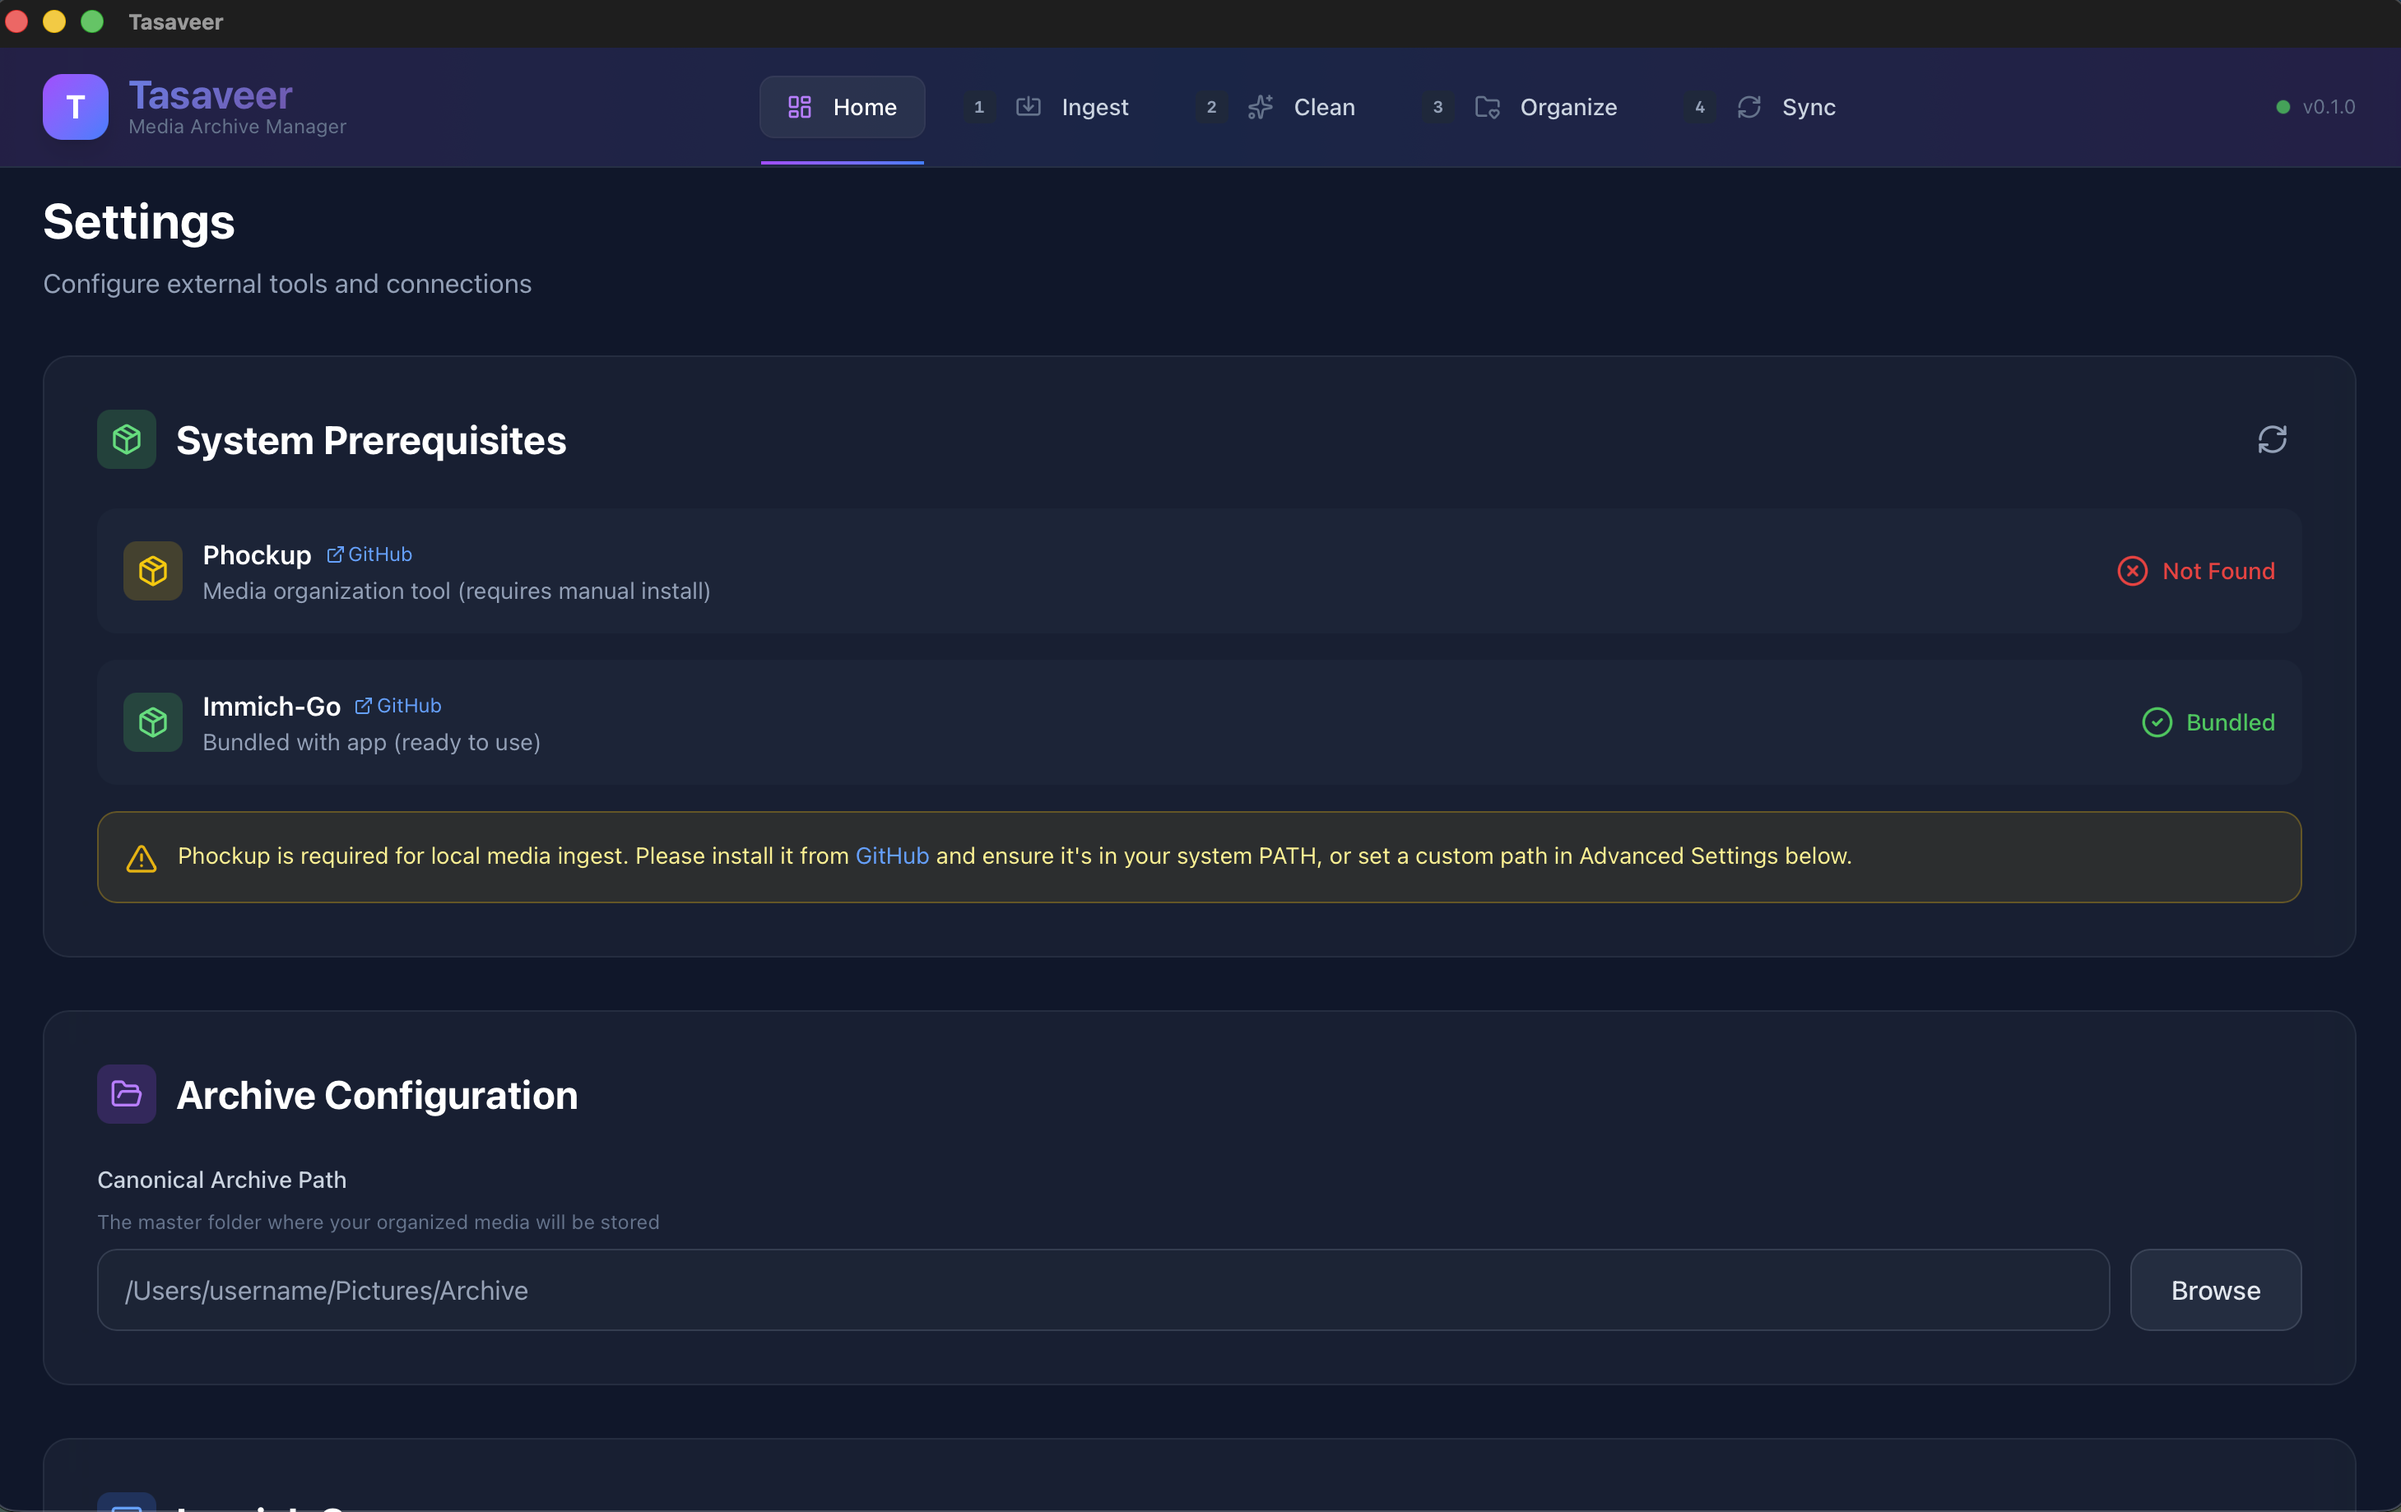
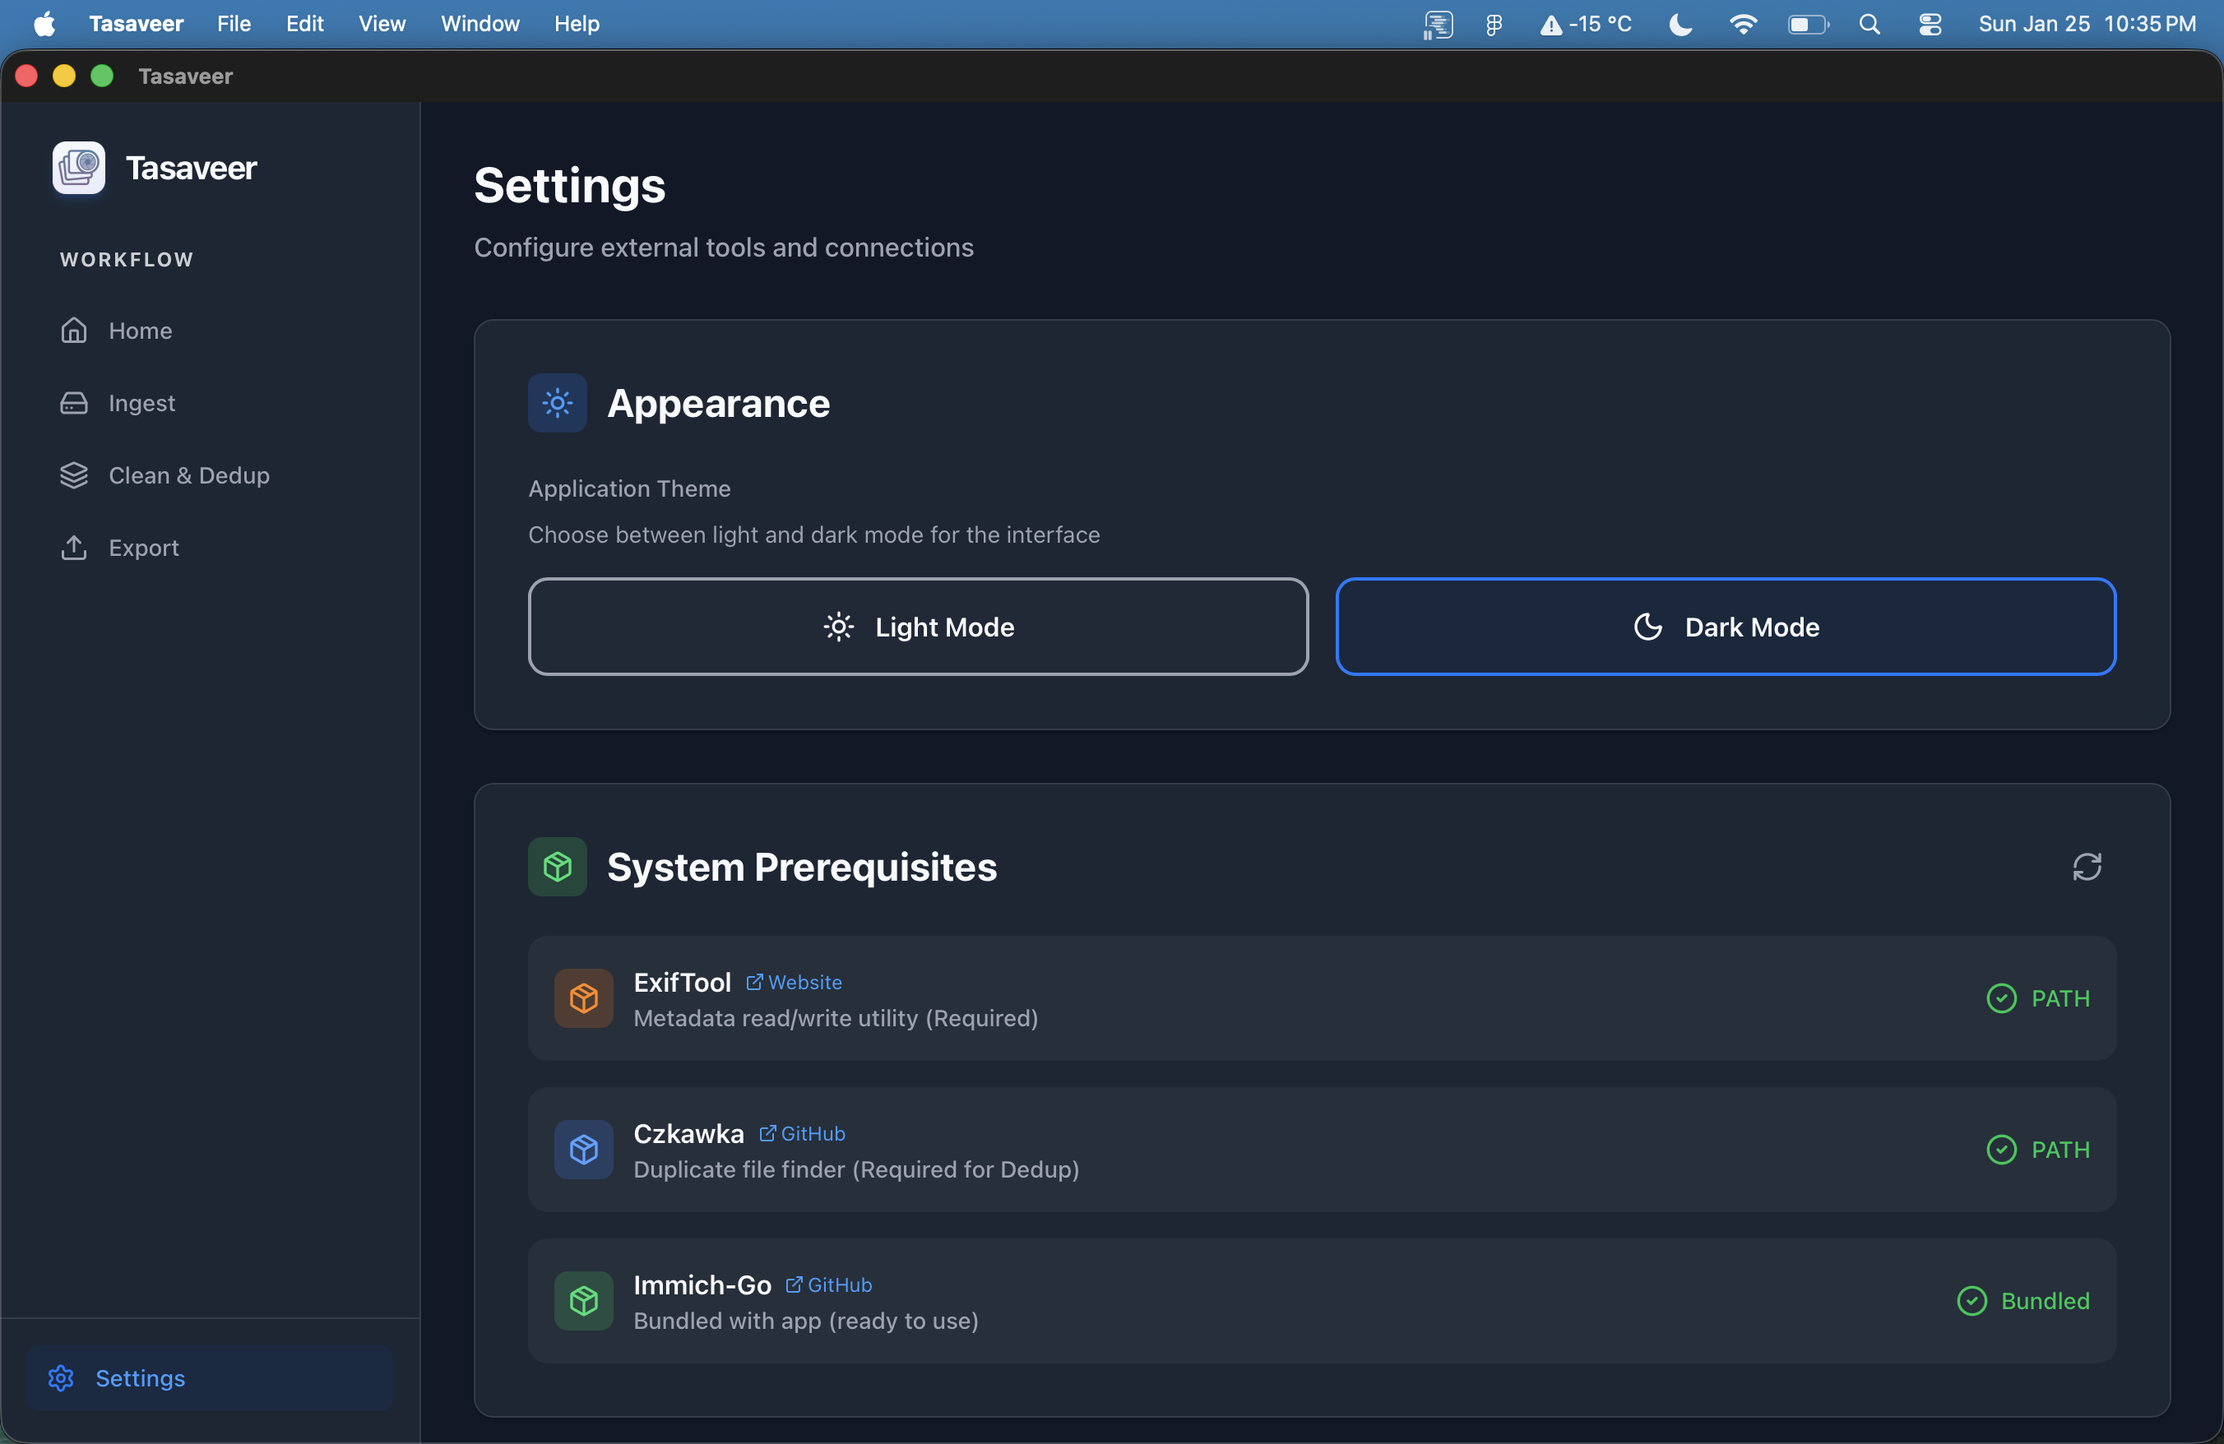
feat: Enable tag removal functionality on the Ingest page and update public screenshots.

diff --git a/src/pages/Ingest.tsx b/src/pages/Ingest.tsx
@@ -1,4 +1,4 @@
-import { Upload, FolderOpen, HardDrive, Copy, Move, CheckCircle2, Image, Cloud, Archive, Camera, FolderTree, Tag, Plus, Search } from "lucide-react";
+import { Upload, FolderOpen, HardDrive, Copy, Move, CheckCircle2, Image, Cloud, Archive, Camera, FolderTree, Tag, Plus, Search, X } from "lucide-react";
 import { useState, useRef, useEffect } from "react";
 import { open } from "@tauri-apps/plugin-dialog";
 import { invoke } from "@tauri-apps/api/core";
@@ -345,6 +345,12 @@ export function Ingest() {
     setSourceTags(updatedTags);
     saveTags(updatedTags);
     setNewTagName("");
+  };
+
+  const handleRemoveTag = (tagId: string) => {
+    const updatedTags = sourceTags.filter(t => t.id !== tagId);
+    setSourceTags(updatedTags);
+    saveTags(updatedTags);
   };
 
   const handleAssignCameraToTag = (model: string, tagId: string | null) => {
@@ -705,9 +711,16 @@ export function Ingest() {
                   {sourceTags.length > 0 && (
                     <div className="flex flex-wrap gap-2 mb-4">
                       {sourceTags.map(tag => (
-                        <span key={tag.id} className={`${tag.color} px-2 py-1 rounded-full text-xs font-medium text-white flex items-center gap-1`}>
+                        <span key={tag.id} className={`${tag.color} pl-2 pr-1 py-1 rounded-full text-xs font-medium text-white flex items-center gap-1`}>
                           <Tag className="w-3 h-3" />
-                          {tag.name}
+                          <span className="mr-1">{tag.name}</span>
+                          <button
+                            onClick={() => handleRemoveTag(tag.id)}
+                            className="p-0.5 hover:bg-white/20 rounded-full transition-colors"
+                            title="Remove tag"
+                          >
+                            <X className="w-3 h-3" />
+                          </button>
                         </span>
                       ))}
                     </div>
